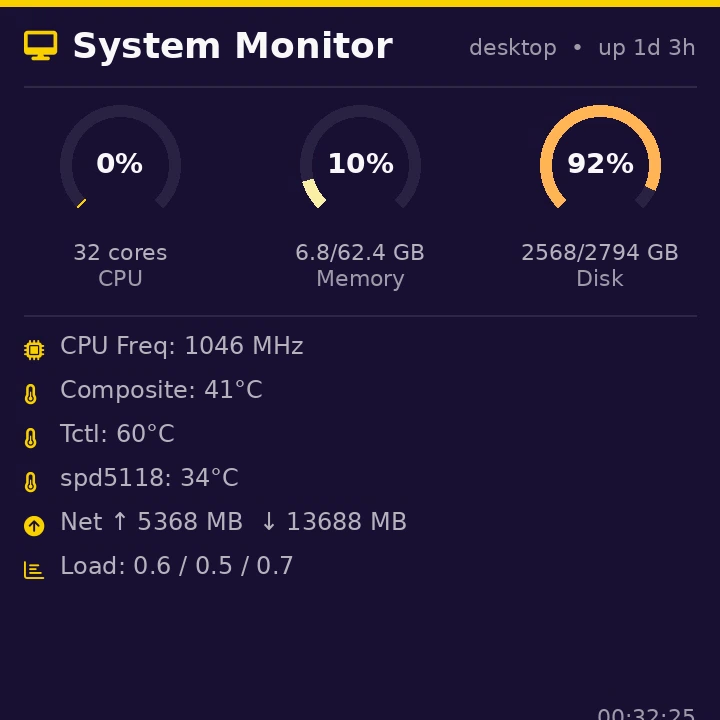
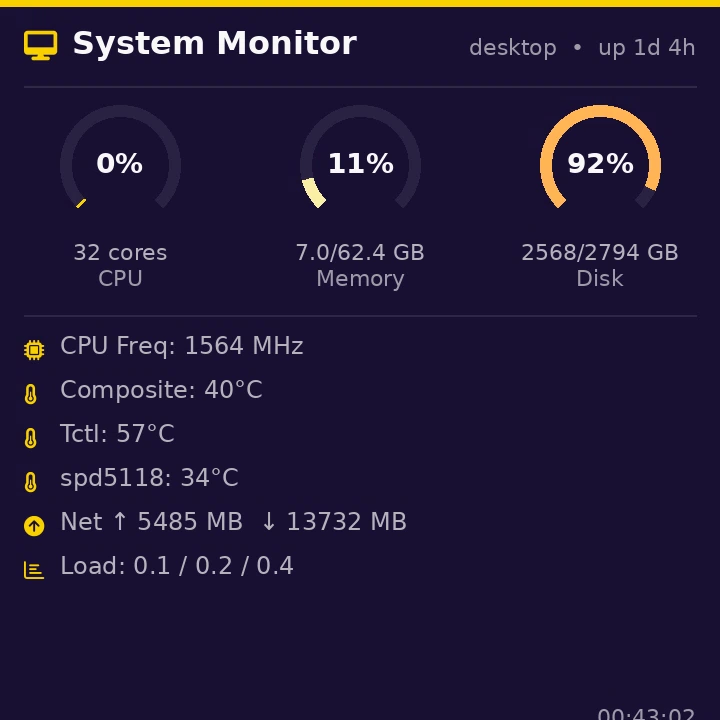
refactor(widgets): 🔧 reuse _draw_header and normalize font sizes across widgets

diff --git a/host/widgets.py b/host/widgets.py
@@ -45,9 +45,9 @@ def _draw_header(draw, width, icon, title, bg, fg, accent,
     """Draw accent bar + icon + title. Returns y position after separator."""
     _draw_accent_bar(draw, width, accent)
     if icon_font is None:
-        icon_font = find_nerd_font(36)
+        icon_font = find_nerd_font(32)
     if title_font is None:
-        title_font = find_font(40, bold=True)
+        title_font = find_font(32, bold=True)
 
     ty = HEADER_Y
     if icon_font:
@@ -177,65 +177,17 @@ def render_notify(title: str, body: str, icon: str,
                   width: int, height: int, bg, accent, fg) -> bytes:
     img, draw = _new_canvas(width, height, bg)
 
-    title_font = find_font(52, bold=True)
     body_font = find_font(34)
-    icon_font = find_nerd_font(52) or find_font(52, bold=True)
 
-    _draw_accent_bar(draw, width, accent)
+    content_y = _draw_header(draw, width, icon, title, bg, fg, accent)
 
-    title_y = ACCENT_BAR_H + PAD
-    icon_gap = 20
-
-    ibbox = draw.textbbox((0, 0), icon, font=icon_font)
-    iw = ibbox[2] - ibbox[0]
-    ih = ibbox[3] - ibbox[1]
-
-    tbbox = draw.textbbox((0, 0), title, font=title_font)
-    th = tbbox[3] - tbbox[1]
-    row_h = max(ih, th)
-
-    first_line_max = width - PAD * 2 - iw - icon_gap
-    rest_max = width - PAD * 2
-    title_lines = []
-    words = title.split()
-    if words:
-        line = words[0]
-        on_first = True
-        max_w = first_line_max
-        for word in words[1:]:
-            test = line + " " + word
-            bbox = draw.textbbox((0, 0), test, font=title_font)
-            if bbox[2] - bbox[0] <= max_w:
-                line = test
-            else:
-                title_lines.append(line)
-                line = word
-                if on_first:
-                    on_first = False
-                    max_w = rest_max
-        title_lines.append(line)
-
-    icon_draw_y = title_y + (row_h - ih) // 2 - ibbox[1]
-    draw.text((PAD, icon_draw_y), icon, fill=accent, font=icon_font)
-
-    cur_y = title_y + (row_h - th) // 2
-    for i, line in enumerate(title_lines):
-        x = PAD + iw + icon_gap if i == 0 else PAD
-        bbox = draw.textbbox((0, 0), line, font=title_font)
-        draw.text((x, cur_y), line, fill=fg, font=title_font)
-        cur_y += bbox[3] - bbox[1] + 8
-
-    sep_y = cur_y + 24
-    _draw_sep(draw, sep_y, width, bg, fg)
-
-    body_y = sep_y + 28
     body_fg = lerp_color(fg, bg, MUTED)
     if body:
         body_lines = word_wrap(draw, body, body_font, width - PAD * 2)
         for line in body_lines:
             bbox = draw.textbbox((0, 0), line or " ", font=body_font)
-            draw.text((PAD, body_y), line, fill=body_fg, font=body_font)
-            body_y += bbox[3] - bbox[1] + 12
+            draw.text((PAD, content_y), line, fill=body_fg, font=body_font)
+            content_y += bbox[3] - bbox[1] + 12
 
     return img_to_webp(img)
 
@@ -332,21 +284,14 @@ def render_weather(data: dict, width: int, height: int,
     wind_dir = current.get("winddir16Point", "")
     precip = current.get("precipMM", "0")
 
-    _draw_accent_bar(draw, width, accent)
+    content_y = _draw_header(draw, width, "\uf124", location, bg, fg, accent)
 
-    loc_y = 32
-    if detail_icon_font:
-        draw.text((PAD, loc_y), "\uf124", fill=accent, font=detail_icon_font)
-    draw.text((PAD + 36, loc_y), location,
-              fill=lerp_color(fg, bg, MUTED), font=label_font)
-
-    row_y = 100
     icon_char = WEATHER_ICONS.get(code, "\ue302")
     if icon_font:
-        draw.text((PAD, row_y), icon_char, fill=accent, font=icon_font)
-    draw.text((PAD + 140, row_y - 10), f"{temp}{unit_sym}", fill=fg, font=temp_font)
+        draw.text((PAD, content_y), icon_char, fill=accent, font=icon_font)
+    draw.text((PAD + 140, content_y - 10), f"{temp}{unit_sym}", fill=fg, font=temp_font)
 
-    desc_y = row_y + 130
+    desc_y = content_y + 130
     draw.text((PAD, desc_y), desc, fill=fg, font=desc_font)
 
     feels_y = desc_y + 50
@@ -442,8 +387,6 @@ def render_sysmon(width: int, height: int, bg, fg, accent) -> bytes:
 
     img, draw = _new_canvas(width, height, bg)
 
-    icon_font = find_nerd_font(32)
-    title_font = find_font(36, bold=True)
     label_font = find_font(22)
     value_font = find_font(26)
     pct_font = find_font(28, bold=True)
@@ -459,7 +402,6 @@ def render_sysmon(width: int, height: int, bg, fg, accent) -> bytes:
     info_str = f"{hostname}  •  up {uptime_str}"
 
     _draw_header(draw, width, "\uf108", "System Monitor", bg, fg, accent,
-                 icon_font=icon_font, title_font=title_font,
                  right_text=info_str, right_font=label_font)
 
     cpu_pct = psutil.cpu_percent(interval=0.5)
@@ -773,11 +715,10 @@ def render_qrcode(data: str, label: str, width: int, height: int,
 
     img, draw = _new_canvas(width, height, bg)
 
-    label_font = find_font(32, bold=True)
     data_font = find_font(22)
 
     content_y = _draw_header(draw, width, "\uf029", label or "Scan QR Code",
-                             bg, fg, accent, title_font=label_font)
+                             bg, fg, accent)
 
     qr = qrcode.QRCode(error_correction=qrcode.constants.ERROR_CORRECT_M,
                         box_size=10, border=2)
@@ -821,30 +762,23 @@ def _fmt_count(n: int) -> str:
     return str(n)
 
 
-LANG_COLORS = {
-    "Python": parse_color("base0d"), "JavaScript": parse_color("base0a"),
-    "TypeScript": parse_color("base0d"), "Rust": parse_color("base09"),
-    "Go": parse_color("base0c"), "Java": parse_color("base09"),
-    "C": parse_color("base04"), "C++": parse_color("base08"),
-    "Ruby": parse_color("base08"), "Shell": parse_color("base0b"),
-}
-
 
 def render_github(repos: list[dict], width: int, height: int,
                   bg, fg, accent) -> bytes:
     img, draw = _new_canvas(width, height, bg)
 
-    repo_font = find_font(32, bold=True)
-    value_font = find_font(28, bold=True)
-    label_font = find_font(20)
-    lang_font = find_font(24)
+    repo_font = find_font(26)
+    value_font = find_font(28)
+
     detail_icon_font = find_nerd_font(26)
 
     content_y = _draw_header(draw, width, "\uf09b", "GitHub Stats",
                              bg, fg, accent)
 
-    card_y = content_y + 6
-    card_h = min(160, (height - card_y - PAD) // max(len(repos), 1))
+    card_y = content_y
+    card_pad = PAD // 2
+    card_gap = card_pad
+    card_h = card_pad + 30 + 8 + 32 + card_pad  # top + name + gap + stats + bottom
 
     stat_icons = {
         "stars": "\uf005", "forks": "\uf126",
@@ -852,20 +786,12 @@ def render_github(repos: list[dict], width: int, height: int,
     }
 
     for i, repo in enumerate(repos):
-        y = card_y + i * card_h
-        draw.rounded_rectangle([PAD, y, width - PAD, y + card_h - 12],
+        y = card_y + i * (card_h + card_gap)
+        draw.rounded_rectangle([PAD, y, width - PAD, y + card_h],
                                radius=16, fill=lerp_color(bg, fg, CARD_BG))
 
-        draw.text((PAD + 20, y + 14), repo["full_name"], fill=fg, font=repo_font)
-
-        lang = repo.get("language") or ""
-        if lang:
-            lc = LANG_COLORS.get(lang, lerp_color(fg, bg, MUTED))
-            lx = width - PAD - 20
-            lw, _ = text_size(draw, lang, lang_font)
-            draw.ellipse([lx - lw - 20, y + 18, lx - lw - 8, y + 30], fill=lc)
-            draw.text((lx - lw, y + 16), lang,
-                      fill=lerp_color(fg, bg, MUTED), font=lang_font)
+        draw.text((PAD + card_pad, y + card_pad), repo["full_name"],
+                  fill=lerp_color(fg, bg, MUTED), font=repo_font)
 
         stats = [
             ("stars", repo["stargazers_count"]),
@@ -873,36 +799,24 @@ def render_github(repos: list[dict], width: int, height: int,
             ("issues", repo["open_issues_count"]),
             ("watchers", repo["subscribers_count"]),
         ]
-        sx = PAD + 20
-        stat_y = y + 56
-        col_w = (width - PAD * 2 - 40) // 4
+        sx = PAD + card_pad
+        stat_y = y + card_pad + 30 + 8
+        col_w = (width - PAD * 2 - card_pad * 2) // 4
 
         for j, (key, val) in enumerate(stats):
             col_cx = sx + j * col_w + col_w // 2
             val_str = _fmt_count(val)
             vw, vh = text_size(draw, val_str, value_font)
-            lw, _ = text_size(draw, key, label_font)
 
             icon_w, icon_gap = 28, 4
             total_w = icon_w + icon_gap + vw
             ix = col_cx - total_w // 2
 
             if detail_icon_font:
-                draw.text((ix, stat_y + 2), stat_icons[key],
+                draw.text((ix, stat_y), stat_icons[key],
                           fill=accent, font=detail_icon_font)
             draw.text((ix + icon_w + icon_gap, stat_y), val_str,
                       fill=fg, font=value_font)
-            draw.text((col_cx - lw // 2, stat_y + vh + 6), key,
-                      fill=lerp_color(fg, bg, DIM), font=label_font)
-
-        desc = repo.get("description") or ""
-        if desc and card_h > 120:
-            desc_y = stat_y + 66
-            max_w = width - PAD * 2 - 40
-            while text_size(draw, desc, lang_font)[0] > max_w and len(desc) > 8:
-                desc = desc[:-4] + "…"
-            draw.text((PAD + 20, desc_y), desc,
-                      fill=lerp_color(fg, bg, DIM), font=lang_font)
 
     return img_to_webp(img)
 
